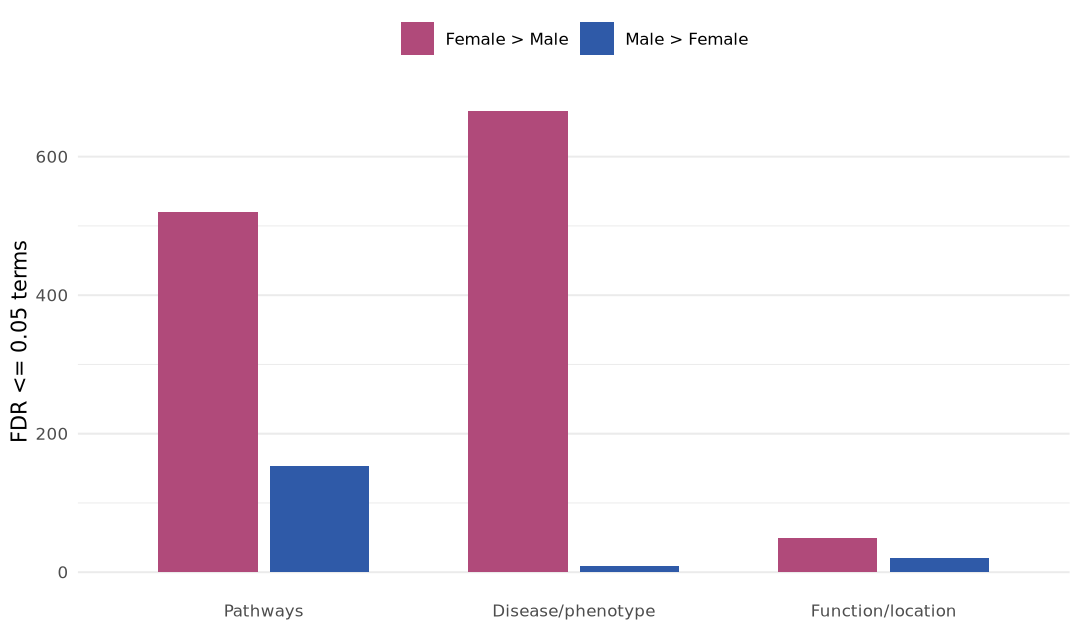
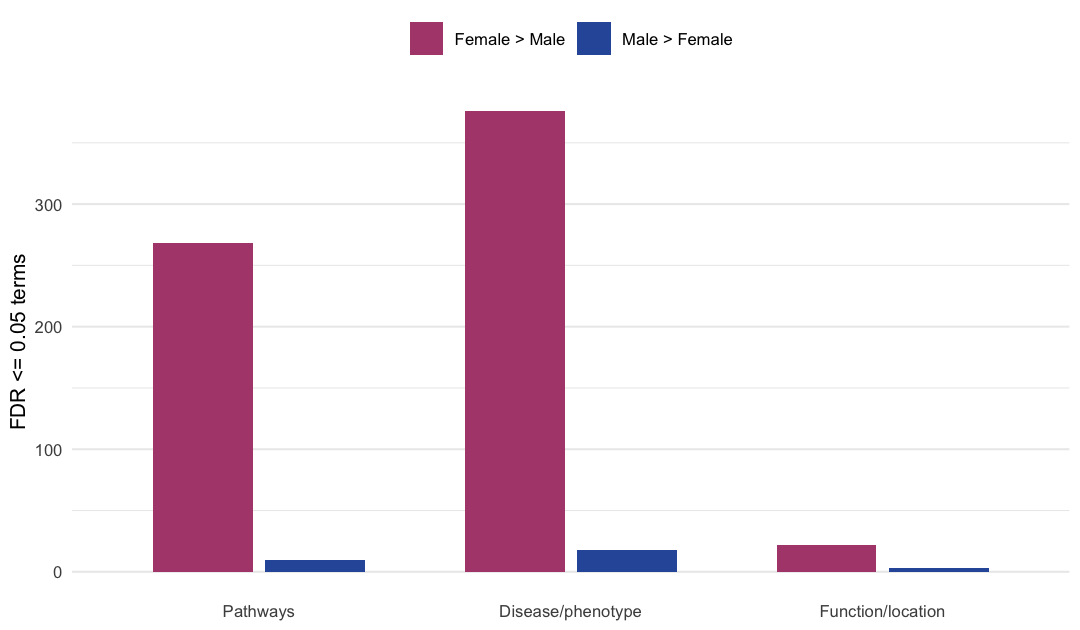
docs: regenerate the sex-contrast example reports for 0.2.0
- rerun the GTEx thyroid and TCGA lung analyses with the 0.2.0 presets
  (Hallmark in pathways, cancer_programs instead of cancer_dependency);
  the cell-line figure is gone
- fix the GTEx gene-reads URL (the counts-by-tissue path returns 404)
- report labels: upper-case HGNC gene symbols in term names, Hallmark and
  cancer-programme collection names
- date the 0.2.0 changelog entry

diff --git a/examples/analysis/sex_contrast/tcga_lung/analysis.md b/examples/analysis/sex_contrast/tcga_lung/analysis.md
@@ -7,13 +7,13 @@ TCGA LUAD and LUSC primary tumors from recount3 were contrasted by sex using DES
 - Samples: 998 total (404 Female, 594 Male).
 - Ranked genes: 53984.
 - DESeq2 design: `~ project + age_at_diagnosis + sex`.
-- GMT files under `results/alien_outputs`: `pathways/gmt/tcga_recount3_gencode29.gmt`, `disease_phenotype/gmt/tcga_recount3_gencode29.gmt`, `function_location/gmt/tcga_recount3_gencode29.gmt`, `cancer_dependency/gmt/tcga_recount3_gencode29.gmt`.
+- GMT files under `results/alien_outputs`: `pathways/gmt/tcga_recount3_gencode29.gmt`, `disease_phenotype/gmt/tcga_recount3_gencode29.gmt`, `function_location/gmt/tcga_recount3_gencode29.gmt`, `cancer_programs/gmt/tcga_recount3_gencode29.gmt`.
 - rsfgsea: `rsfgsea` in multilevel mode.
 - Direction: positive NES means Female > Male; negative NES means Male > Female.
 
 ## Main Result
 
-FDR-significant enrichment was present in 4 of 4 collections. The broadest signal was in `Pathways` (1124 Female > Male terms, 1044 Male > Female terms), with the larger directional count in Female > Male sets.
+FDR-significant enrichment was present in 4 of 4 collections. The broadest signal was in `Pathways` (691 Female > Male terms, 495 Male > Female terms), with the larger directional count in Female > Male sets.
 
 ## Data Products
 
@@ -22,16 +22,16 @@ FDR-significant enrichment was present in 4 of 4 collections. The broadest signa
 
 ## Collection Summary
 
-The figure below gives a collection-level view of significant enrichment. Detailed term-level results are shown in the tables; figures are limited to the clearest pathway and cancer-dependency examples.
+The figure below gives a collection-level view of significant enrichment. Detailed term-level results are shown in the tables; figures are limited to the clearest pathway and cancer-programme examples.
 
 ![collection_significance.png](collection_significance.png)
 
 Collection | Tested terms | FDR <= 0.05 | Strongest Female > Male | Strongest Male > Female
 --- | --- | --- | --- | ---
-Pathways | 7771 | 2168 | GOBP: Negative regulation of interleukin 10 production (NES 1.91, FDR 0.0071) | GOBP: Farnesyl diphosphate biosynthetic process (NES -2.03, FDR 0.00305)
-Disease/phenotype | 11902 | 1440 | DisGeNET: Autoimmune primary adrenal insufficiency (NES 2.35, FDR 0.024) | Clinvar 2025: Leigh syndrome (NES -1.97, FDR 0.024)
-Function/location | 1835 | 377 | GOCC: T cell receptor complex (NES 2.6, FDR 0.0226) | GOMF: Nucleic acid conformation isomerase activity (NES -2.4, FDR 0.0226)
-Cancer dependency | 2702 | 1942 | Cancer Cell Line Encyclopedia: HS611T haematopoietic and lymphoid tissue (NES 2.74, FDR 0.00454) | CGN: GNF2 CCNA2 (NES -2.7, FDR 0.00454)
+Pathways | 7678 | 1186 | Reactome: Immunoregulatory interactions between a lymphoid and a non lymphoid... (NES 2.41, FDR 9.33e-15) | Hallmark: E2F targets (NES -2.58, FDR 1.04e-10)
+Disease/phenotype | 11820 | 606 | Jensen Diseases Curated 2025: Primary immunodeficiency disease (NES 2.19, FDR 4.02e-10) | DisGeNET: Spermatogenic failure nonobstructive y-linked (NES -2.4, FDR 9.52e-08)
+Function/location | 1835 | 224 | GOCC: External side of plasma membrane (NES 2.34, FDR 1.98e-21) | GOMF: Catalytic activity acting on RNA (NES -2.14, FDR 5.77e-09)
+Cancer programmes | 399 | 184 | C9: Genes correlated with RHOA deletion (NES 2.63, FDR 6.24e-30) | 3CA: Gavish 3CA malignant metaprogram 20 MYC (NES -2.42, FDR 4.42e-06)
 
 ## Enrichment Results
 
@@ -39,22 +39,22 @@ Cancer dependency | 2702 | 1942 | Cancer Cell Line Encyclopedia: HS611T haematop
 
 - GMT: `results/alien_outputs/pathways/gmt/tcga_recount3_gencode29.gmt`.
 - rsfgsea table: [tcga_lung_pathways_female_vs_male_rsfgsea.tsv](../../../../results/sex_contrast/tcga_lung/tables/tcga_lung_pathways_female_vs_male_rsfgsea.tsv)
-- Tested 7771 terms; 2168 had FDR <= 0.05.
-- Strongest Female > Male signal: GOBP: Negative regulation of interleukin 10 production (NES 1.91, FDR 0.0071).
-- Strongest Male > Female signal: GOBP: Farnesyl diphosphate biosynthetic process (NES -2.03, FDR 0.00305).
+- Tested 7678 terms; 1186 had FDR <= 0.05.
+- Strongest Female > Male signal: Reactome: Immunoregulatory interactions between a lymphoid and a non lymphoid... (NES 2.41, FDR 9.33e-15).
+- Strongest Male > Female signal: Hallmark: E2F targets (NES -2.58, FDR 1.04e-10).
 
 Top enrichment rows:
 
 Source | Collection | Term | NES | P value | FDR | Genes
 --- | --- | --- | --- | --- | --- | ---
-MSigDB | GOBP | Farnesyl diphosphate biosynthetic process | -2.034 | 1.098e-05 | 0.003049 | 10
-MSigDB | KEGG Medicus | Reference recruitment and formation of the mcc | -1.904 | 1.098e-05 | 0.003049 | 10
-MSigDB | GOBP | Positive regulation of protein localization to cajal body | -1.872 | 1.098e-05 | 0.003049 | 10
-MSigDB | GOBP | mRNA pseudouridine synthesis | -1.817 | 1.098e-05 | 0.003049 | 10
-MSigDB | KEGG Medicus | Reference citrate cycle second carbon oxidation 2 | -1.783 | 1.098e-05 | 0.003049 | 10
-MSigDB | Reactome | Cholesterol biosynthesis via desmosterol bloch pathway | -1.782 | 1.098e-05 | 0.003049 | 10
-MSigDB | GOBP | Heme a biosynthetic process | -1.78 | 1.098e-05 | 0.003049 | 10
-MSigDB | GOBP | Regulation of amino acid metabolic process | -1.77 | 1.098e-05 | 0.003049 | 10
+MSigDB | Reactome | Immunoregulatory interactions between a lymphoid and a non lymphoid cell | 2.406 | 2.163e-18 | 9.334e-15 | 186
+MSigDB | GOBP | Leukocyte proliferation | 2.194 | 2.431e-18 | 9.334e-15 | 347
+MSigDB | GOBP | Leukocyte cell cell adhesion | 2.069 | 1.665e-17 | 4.262e-14 | 450
+MSigDB | Hallmark | Interferon gamma response | 2.358 | 2.271e-17 | 4.358e-14 | 199
+MSigDB | GOBP | Regulation of leukocyte proliferation | 2.219 | 4.929e-17 | 7.569e-14 | 275
+MSigDB | GOBP | Immune response regulating cell surface receptor signaling pathway | 2.081 | 9.602e-17 | 1.229e-13 | 411
+MSigDB | GOBP | Regulation of T cell activation | 2.046 | 2.593e-15 | 2.844e-12 | 408
+MSigDB | GOBP | Positive regulation of cell activation | 2.051 | 3.092e-15 | 2.968e-12 | 392
 
 Selected figures:
 
@@ -66,66 +66,68 @@ Selected figures:
 
 - GMT: `results/alien_outputs/disease_phenotype/gmt/tcga_recount3_gencode29.gmt`.
 - rsfgsea table: [tcga_lung_disease_phenotype_female_vs_male_rsfgsea.tsv](../../../../results/sex_contrast/tcga_lung/tables/tcga_lung_disease_phenotype_female_vs_male_rsfgsea.tsv)
-- Tested 11902 terms; 1440 had FDR <= 0.05.
-- Strongest Female > Male signal: DisGeNET: Autoimmune primary adrenal insufficiency (NES 2.35, FDR 0.024).
-- Strongest Male > Female signal: Clinvar 2025: Leigh syndrome (NES -1.97, FDR 0.024).
+- Tested 11820 terms; 606 had FDR <= 0.05.
+- Strongest Female > Male signal: Jensen Diseases Curated 2025: Primary immunodeficiency disease (NES 2.19, FDR 4.02e-10).
+- Strongest Male > Female signal: DisGeNET: Spermatogenic failure nonobstructive y-linked (NES -2.4, FDR 9.52e-08).
 
 Top enrichment rows:
 
 Source | Collection | Term | NES | P value | FDR | Genes
 --- | --- | --- | --- | --- | --- | ---
-Enrichr | DisGeNET | Autoimmune primary adrenal insufficiency | 2.35 | 0.001727 | 0.02401 | 47
-MSigDB | HPO | Meningitis | 2.278 | 0.001695 | 0.02401 | 80
-MSigDB | HPO | Recurrent mycobacterial infections | 2.243 | 0.001709 | 0.02401 | 66
-MSigDB | HPO | Chronic sinusitis | 2.24 | 0.001712 | 0.02401 | 72
-Enrichr | Jensen Diseases Curated 2025 | Autoimmune disease | 2.222 | 0.001645 | 0.02401 | 170
-Enrichr | Jensen Diseases Curated 2025 | Immune system disease | 2.209 | 0.001618 | 0.02401 | 243
-Enrichr | DisGeNET | Common variable immunodeficiency | 2.201 | 0.001618 | 0.02401 | 149
-MSigDB | HPO | Abnormal atrial arrangement | 2.197 | 0.001686 | 0.02401 | 59
+Enrichr | Jensen Diseases Curated 2025 | Primary immunodeficiency disease | 2.192 | 3.397e-14 | 4.015e-10 | 216
+Enrichr | Jensen Diseases Curated 2025 | Autoimmune disease | 2.222 | 9.613e-13 | 5.681e-09 | 170
+Enrichr | DisGeNET | Common variable immunodeficiency | 2.21 | 7.645e-12 | 2.259e-08 | 150
+MSigDB | HPO | Abnormal paranasal sinus morphology | 2.112 | 7.073e-12 | 2.259e-08 | 199
+MSigDB | HPO | Abnormal pulmonary thoracic imaging finding | 2.146 | 1.308e-11 | 3.093e-08 | 166
+Enrichr | Jensen Diseases Curated 2025 | Autoimmune disease of musculoskeletal system | 2.173 | 2.774e-11 | 5.465e-08 | 140
+Enrichr | DisGeNET | Spermatogenic failure nonobstructive y-linked | -2.404 | 7.943e-11 | 9.515e-08 | 16
+MSigDB | HPO | Meningitis | 2.278 | 5.896e-11 | 9.515e-08 | 80
 
 ### Function/location
 
 - GMT: `results/alien_outputs/function_location/gmt/tcga_recount3_gencode29.gmt`.
 - rsfgsea table: [tcga_lung_function_location_female_vs_male_rsfgsea.tsv](../../../../results/sex_contrast/tcga_lung/tables/tcga_lung_function_location_female_vs_male_rsfgsea.tsv)
-- Tested 1835 terms; 377 had FDR <= 0.05.
-- Strongest Female > Male signal: GOCC: T cell receptor complex (NES 2.6, FDR 0.0226).
-- Strongest Male > Female signal: GOMF: Nucleic acid conformation isomerase activity (NES -2.4, FDR 0.0226).
+- Tested 1835 terms; 224 had FDR <= 0.05.
+- Strongest Female > Male signal: GOCC: External side of plasma membrane (NES 2.34, FDR 1.98e-21).
+- Strongest Male > Female signal: GOMF: Catalytic activity acting on RNA (NES -2.14, FDR 5.77e-09).
 
 Top enrichment rows:
 
 Source | Collection | Term | NES | P value | FDR | Genes
 --- | --- | --- | --- | --- | --- | ---
-MSigDB | GOCC | T cell receptor complex | 2.595 | 0.001629 | 0.02255 | 142
-MSigDB | GOMF | Immune receptor activity | 2.45 | 0.001667 | 0.02255 | 169
-MSigDB | GOMF | Antigen binding | 2.418 | 0.001675 | 0.02255 | 170
-MSigDB | GOMF | Nucleic acid conformation isomerase activity | -2.404 | 0.002475 | 0.02255 | 159
-MSigDB | GOCC | Immunoglobulin complex | 2.38 | 0.001689 | 0.02255 | 173
-MSigDB | GOCC | Nucleoid | -2.378 | 0.002404 | 0.02255 | 48
-MSigDB | GOCC | Mitochondrial protein containing complex | -2.364 | 0.002469 | 0.02255 | 182
-MSigDB | GOCC | External side of plasma membrane | 2.336 | 0.001585 | 0.02255 | 380
+MSigDB | GOCC | External side of plasma membrane | 2.335 | 1.081e-24 | 1.984e-21 | 380
+MSigDB | GOCC | T cell receptor complex | 2.595 | 1.881e-21 | 1.726e-18 | 142
+MSigDB | GOMF | Immune receptor activity | 2.45 | 3.483e-19 | 2.13e-16 | 169
+MSigDB | GOMF | Antigen binding | 2.417 | 2.092e-18 | 9.596e-16 | 170
+MSigDB | GOCC | Plasma membrane signaling receptor complex | 2.184 | 5.361e-18 | 1.968e-15 | 356
+MSigDB | GOCC | Immunoglobulin complex | 2.379 | 1.28e-17 | 3.914e-15 | 173
+MSigDB | GOCC | Axoneme | 2.096 | 1.651e-12 | 4.327e-10 | 235
+MSigDB | GOMF | Catalytic activity acting on RNA | -2.14 | 2.515e-11 | 5.768e-09 | 428
 
-### Cancer dependency
+### Cancer programmes
 
-- GMT: `results/alien_outputs/cancer_dependency/gmt/tcga_recount3_gencode29.gmt`.
-- rsfgsea table: [tcga_lung_cancer_dependency_female_vs_male_rsfgsea.tsv](../../../../results/sex_contrast/tcga_lung/tables/tcga_lung_cancer_dependency_female_vs_male_rsfgsea.tsv)
-- Tested 2702 terms; 1942 had FDR <= 0.05.
-- Strongest Female > Male signal: Cancer Cell Line Encyclopedia: HS611T haematopoietic and lymphoid tissue (NES 2.74, FDR 0.00454).
-- Strongest Male > Female signal: CGN: GNF2 CCNA2 (NES -2.7, FDR 0.00454).
+- GMT: `results/alien_outputs/cancer_programs/gmt/tcga_recount3_gencode29.gmt`.
+- rsfgsea table: [tcga_lung_cancer_programs_female_vs_male_rsfgsea.tsv](../../../../results/sex_contrast/tcga_lung/tables/tcga_lung_cancer_programs_female_vs_male_rsfgsea.tsv)
+- Tested 399 terms; 184 had FDR <= 0.05.
+- Strongest Female > Male signal: C9: Genes correlated with RHOA deletion (NES 2.63, FDR 6.24e-30).
+- Strongest Male > Female signal: 3CA: Gavish 3CA malignant metaprogram 20 MYC (NES -2.42, FDR 4.42e-06).
 
 Top enrichment rows:
 
 Source | Collection | Term | NES | P value | FDR | Genes
 --- | --- | --- | --- | --- | --- | ---
-Enrichr | Cancer Cell Line Encyclopedia | HS611T haematopoietic and lymphoid tissue | 2.74 | 0.001629 | 0.004537 | 217
-MSigDB | CGN | GNF2 CCNA2 | -2.704 | 0.002439 | 0.004537 | 68
-MSigDB | CGN | GNF2 pcna | -2.678 | 0.002439 | 0.004537 | 68
-MSigDB | C9 | Genes correlated with myb deletion | 2.667 | 0.001669 | 0.004537 | 60
-Enrichr | Cancer Cell Line Encyclopedia | MOTN1 haematopoietic and lymphoid tissue | 2.664 | 0.001667 | 0.004537 | 420
-MSigDB | CGN | GNF2 hmmr | -2.653 | 0.002364 | 0.004537 | 47
-Enrichr | Cancer Cell Line Encyclopedia | Eheb haematopoietic and lymphoid tissue | 2.652 | 0.001616 | 0.004537 | 336
-Enrichr | Cancer Cell Line Encyclopedia | EB1 haematopoietic and lymphoid tissue | 2.652 | 0.001605 | 0.004537 | 236
+MSigDB | C9 | Genes correlated with RHOA deletion | 2.634 | 1.565e-32 | 6.245e-30 | 280
+MSigDB | C9 | Genes correlated with H3C2 deletion | 2.342 | 8.476e-20 | 1.691e-17 | 249
+MSigDB | C9 | Genes correlated with H3C3 deletion | 2.447 | 1.968e-17 | 2.618e-15 | 159
+MSigDB | C9 | Genes correlated with MYB deletion | 2.691 | 8.55e-17 | 7.289e-15 | 60
+MSigDB | C6 | RPS14 dn.V1 up | 2.315 | 9.134e-17 | 7.289e-15 | 190
+MSigDB | C9 | Genes correlated with PIK3CD deletion | 2.518 | 3.312e-12 | 2.202e-10 | 35
+MSigDB | 3CA | Gavish 3CA metaprogram B cells MHC II | 2.475 | 1.466e-11 | 7.852e-10 | 50
+MSigDB | C9 | Genes correlated with DNM2 deletion | 2.39 | 1.574e-11 | 7.852e-10 | 80
 
-Selected figure:
+Selected figures:
 
-![cancer_dependency_lung_cancer_cell_lines_running_score.png](cancer_dependency_lung_cancer_cell_lines_running_score.png)
+![cancer_programs_tumour_programmes_3ca_metaprograms_running_score.png](cancer_programs_tumour_programmes_3ca_metaprograms_running_score.png)
+
+![cancer_programs_oncogenic_signatures_kras_egfr_myc_running_score.png](cancer_programs_oncogenic_signatures_kras_egfr_myc_running_score.png)
 

diff --git a/examples/analysis/sex_contrast/gtex_thyroid/analysis.md b/examples/analysis/sex_contrast/gtex_thyroid/analysis.md
@@ -1,6 +1,6 @@
 # GTEx Thyroid Sex Contrast
 
-GTEx v11 thyroid samples were contrasted by sex using DESeq2 on raw counts, adjusting for age group, Hardy death class, RNA integrity, tissue ischemic time, and sequencing center. Genes were ranked by the Wald statistic for Female vs Male and tested against three ALIEN GTEx/Gencode GMT collections with multilevel rsfgsea: pathways, disease/phenotype, and function/location. Cancer dependency is intentionally not used for GTEx.
+GTEx v11 thyroid samples were contrasted by sex using DESeq2 on raw counts, adjusting for age group, Hardy death class, RNA integrity, tissue ischemic time, and sequencing center. Genes were ranked by the Wald statistic for Female vs Male and tested against three ALIEN GTEx/Gencode GMT collections with multilevel rsfgsea: pathways, disease/phenotype, and function/location. The cancer-programme and cell-line collections are not used for normal tissue.
 
 - Samples: 683 total (224 Female, 459 Male).
 - Ranked genes: 65295.
@@ -11,7 +11,7 @@ GTEx v11 thyroid samples were contrasted by sex using DESeq2 on raw counts, adju
 
 ## Main Result
 
-FDR-significant enrichment was present in 3 of 3 collections. The broadest signal was in `Disease/phenotype` (666 Female > Male terms, 9 Male > Female terms), with the larger directional count in Female > Male sets.
+FDR-significant enrichment was present in 3 of 3 collections. The broadest signal was in `Disease/phenotype` (376 Female > Male terms, 18 Male > Female terms), with the larger directional count in Female > Male sets.
 
 ## Data Products
 
@@ -26,9 +26,9 @@ The figure below gives a collection-level view of significant enrichment. Detail
 
 Collection | Tested terms | FDR <= 0.05 | Strongest Female > Male | Strongest Male > Female
 --- | --- | --- | --- | ---
-Pathways | 7716 | 673 | GOBP: T cell receptor signaling pathway (NES 2.33, FDR 0.0318) | GOBP: Regulation of androgen receptor signaling pathway (NES -2.33, FDR 0.0318)
-Disease/phenotype | 11886 | 675 | HPO: Abnormal T cell morphology (NES 2.28, FDR 0.0338) | HPO: Decreased testicular size (NES -2.02, FDR 0.0338)
-Function/location | 1825 | 71 | GOCC: Tertiary granule (NES 1.75, FDR 0.0127) | GOMF: Dynein heavy chain binding (NES -2.01, FDR 0.0226)
+Pathways | 7626 | 278 | GOBP: Immune response regulating cell surface receptor signaling pathway (NES 2.21, FDR 1.75e-16) | GOBP: Cilium organization (NES -1.95, FDR 0.00193)
+Disease/phenotype | 11804 | 394 | HPO: Abnormal lymphocyte morphology (NES 2.16, FDR 7.37e-10) | Jensen Diseases Experimental 2025: Autistic disorder (NES -2.35, FDR 3.62e-06)
+Function/location | 1825 | 25 | GOCC: T cell receptor complex (NES 2.49, FDR 2.23e-15) | GOCC: Axoneme (NES -2.24, FDR 0.00876)
 
 ## Enrichment Results
 
@@ -36,22 +36,22 @@ Function/location | 1825 | 71 | GOCC: Tertiary granule (NES 1.75, FDR 0.0127) | 
 
 - GMT: `results/alien_outputs/pathways/gmt/gtex_v11_gencode47.gmt`.
 - rsfgsea table: [gtex_thyroid_pathways_female_vs_male_rsfgsea.tsv](../../../../results/sex_contrast/gtex_thyroid/tables/gtex_thyroid_pathways_female_vs_male_rsfgsea.tsv)
-- Tested 7716 terms; 673 had FDR <= 0.05.
-- Strongest Female > Male signal: GOBP: T cell receptor signaling pathway (NES 2.33, FDR 0.0318).
-- Strongest Male > Female signal: GOBP: Regulation of androgen receptor signaling pathway (NES -2.33, FDR 0.0318).
+- Tested 7626 terms; 278 had FDR <= 0.05.
+- Strongest Female > Male signal: GOBP: Immune response regulating cell surface receptor signaling pathway (NES 2.21, FDR 1.75e-16).
+- Strongest Male > Female signal: GOBP: Cilium organization (NES -1.95, FDR 0.00193).
 
 Top enrichment rows:
 
 Source | Collection | Term | NES | P value | FDR | Genes
 --- | --- | --- | --- | --- | --- | ---
-MSigDB | GOBP | Regulation of androgen receptor signaling pathway | -2.333 | 0.001556 | 0.03178 | 33
-MSigDB | GOBP | T cell receptor signaling pathway | 2.328 | 0.001441 | 0.03178 | 161
-MSigDB | GOBP | Antigen receptor mediated signaling pathway | 2.323 | 0.001406 | 0.03178 | 220
-MSigDB | GOBP | Natural killer cell mediated immunity | 2.312 | 0.001449 | 0.03178 | 94
-MSigDB | Reactome | Sars cov 1 modulates host translation machinery | -2.309 | 0.0008006 | 0.03178 | 37
-MSigDB | GOBP | Leukocyte mediated cytotoxicity | 2.305 | 0.001441 | 0.03178 | 156
-MSigDB | GOBP | Regulation of natural killer cell mediated immunity | 2.24 | 0.001515 | 0.03178 | 61
-MSigDB | Reactome | Generation of second messenger molecules | 2.223 | 0.00155 | 0.03178 | 37
+MSigDB | GOBP | Immune response regulating cell surface receptor signaling pathway | 2.211 | 2.298e-20 | 1.752e-16 | 402
+MSigDB | GOBP | Antigen receptor mediated signaling pathway | 2.323 | 5.518e-16 | 2.104e-12 | 220
+MSigDB | GOBP | Leukocyte cell cell adhesion | 2.006 | 3.161e-15 | 8.035e-12 | 436
+MSigDB | GOBP | Lymphocyte differentiation | 1.966 | 1.475e-14 | 2.812e-11 | 454
+MSigDB | GOBP | T cell receptor signaling pathway | 2.328 | 4.966e-14 | 7.573e-11 | 161
+MSigDB | GOBP | Regulation of T cell activation | 1.991 | 1.879e-13 | 2.388e-10 | 402
+MSigDB | GOBP | Leukocyte mediated cytotoxicity | 2.305 | 5.418e-13 | 5.902e-10 | 156
+MSigDB | Hallmark | Allograft rejection | 2.221 | 2.136e-12 | 2.036e-09 | 200
 
 Selected figure:
 
@@ -61,22 +61,22 @@ Selected figure:
 
 - GMT: `results/alien_outputs/disease_phenotype/gmt/gtex_v11_gencode47.gmt`.
 - rsfgsea table: [gtex_thyroid_disease_phenotype_female_vs_male_rsfgsea.tsv](../../../../results/sex_contrast/gtex_thyroid/tables/gtex_thyroid_disease_phenotype_female_vs_male_rsfgsea.tsv)
-- Tested 11886 terms; 675 had FDR <= 0.05.
-- Strongest Female > Male signal: HPO: Abnormal T cell morphology (NES 2.28, FDR 0.0338).
-- Strongest Male > Female signal: HPO: Decreased testicular size (NES -2.02, FDR 0.0338).
+- Tested 11804 terms; 394 had FDR <= 0.05.
+- Strongest Female > Male signal: HPO: Abnormal lymphocyte morphology (NES 2.16, FDR 7.37e-10).
+- Strongest Male > Female signal: Jensen Diseases Experimental 2025: Autistic disorder (NES -2.35, FDR 3.62e-06).
 
 Top enrichment rows:
 
 Source | Collection | Term | NES | P value | FDR | Genes
 --- | --- | --- | --- | --- | --- | ---
-MSigDB | HPO | Abnormal T cell morphology | 2.28 | 0.00149 | 0.03381 | 133
-MSigDB | HPO | Abnormal T cell subset distribution | 2.261 | 0.001546 | 0.03381 | 85
-MSigDB | HPO | Abnormal B cell morphology | 2.248 | 0.001508 | 0.03381 | 112
-MSigDB | HPO | Abnormal lymphocyte morphology | 2.161 | 0.001447 | 0.03381 | 263
-MSigDB | HPO | Abnormal eosinophil morphology | 2.137 | 0.001529 | 0.03381 | 74
-MSigDB | HPO | Abnormal circulating interleukin concentration | 2.131 | 0.001565 | 0.03381 | 38
-MSigDB | HPO | Unusual fungal infection | 2.13 | 0.00152 | 0.03381 | 121
-MSigDB | HPO | Meningitis | 2.127 | 0.001553 | 0.03381 | 80
+MSigDB | HPO | Abnormal lymphocyte morphology | 2.161 | 6.244e-14 | 7.37e-10 | 263
+MSigDB | HPO | Abnormal T cell morphology | 2.28 | 3.932e-13 | 2.32e-09 | 133
+MSigDB | HPO | Abnormal leukocyte physiology | 1.951 | 6.353e-12 | 2.5e-08 | 353
+MSigDB | HPO | Abnormal B cell morphology | 2.248 | 8.934e-12 | 2.636e-08 | 112
+MSigDB | HPO | Abnormality of humoral immunity | 1.92 | 1.147e-11 | 2.707e-08 | 359
+MSigDB | HPO | Abnormal lymphocyte count | 2.03 | 1.897e-10 | 3.731e-07 | 209
+MSigDB | HPO | Abnormal lymph node morphology | 1.976 | 2.779e-10 | 4.686e-07 | 269
+Enrichr | Jensen Diseases Curated 2025 | Primary immunodeficiency disease | 2.044 | 4.288e-10 | 6.327e-07 | 215
 
 Selected figure:
 
@@ -86,20 +86,20 @@ Selected figure:
 
 - GMT: `results/alien_outputs/function_location/gmt/gtex_v11_gencode47.gmt`.
 - rsfgsea table: [gtex_thyroid_function_location_female_vs_male_rsfgsea.tsv](../../../../results/sex_contrast/gtex_thyroid/tables/gtex_thyroid_function_location_female_vs_male_rsfgsea.tsv)
-- Tested 1825 terms; 71 had FDR <= 0.05.
-- Strongest Female > Male signal: GOCC: Tertiary granule (NES 1.75, FDR 0.0127).
-- Strongest Male > Female signal: GOMF: Dynein heavy chain binding (NES -2.01, FDR 0.0226).
+- Tested 1825 terms; 25 had FDR <= 0.05.
+- Strongest Female > Male signal: GOCC: T cell receptor complex (NES 2.49, FDR 2.23e-15).
+- Strongest Male > Female signal: GOCC: Axoneme (NES -2.24, FDR 0.00876).
 
 Top enrichment rows:
 
 Source | Collection | Term | NES | P value | FDR | Genes
 --- | --- | --- | --- | --- | --- | ---
-MSigDB | GOCC | Tertiary granule | 1.753 | 6.96e-06 | 0.0127 | 163
-MSigDB | GOMF | Dynein heavy chain binding | -2.014 | 0.0001795 | 0.02265 | 14
-MSigDB | GOMF | G protein coupled chemoattractant receptor activity | 2.011 | 3.036e-05 | 0.02265 | 27
-MSigDB | GOCC | Motile cilium | -2.001 | 0.0001393 | 0.02265 | 331
-MSigDB | GOMF | Immunoglobulin binding | 1.988 | 0.0002343 | 0.02265 | 30
-MSigDB | GOCC | MHC protein complex | 1.955 | 0.0002358 | 0.02265 | 24
-MSigDB | GOMF | Igg binding | 1.871 | 6.307e-05 | 0.02265 | 14
-MSigDB | GOMF | Immunoglobulin receptor activity | 1.85 | 6.307e-05 | 0.02265 | 14
+MSigDB | GOCC | T cell receptor complex | 2.485 | 1.219e-18 | 2.225e-15 | 139
+MSigDB | GOMF | Immune receptor activity | 2.293 | 6.526e-14 | 5.955e-11 | 167
+MSigDB | GOCC | Plasma membrane signaling receptor complex | 2.073 | 2.306e-13 | 1.403e-10 | 353
+MSigDB | GOCC | Immunoglobulin complex | 2.162 | 7.803e-11 | 3.56e-08 | 170
+MSigDB | GOMF | Antigen binding | 2.058 | 6.475e-10 | 2.363e-07 | 168
+MSigDB | GOCC | External side of plasma membrane | 1.836 | 8.878e-09 | 2.7e-06 | 378
+MSigDB | GOMF | Pattern recognition receptor activity | 2.085 | 3.304e-07 | 8.614e-05 | 53
+MSigDB | GOMF | Peptide antigen binding | 2.081 | 4.629e-07 | 0.0001056 | 45
 

diff --git a/CHANGELOG.md b/CHANGELOG.md
@@ -2,7 +2,7 @@
 
 All notable changes to ALIEN are documented here. The format follows [Keep a Changelog](https://keepachangelog.com/en/1.1.0/) and the project uses [Semantic Versioning](https://semver.org/).
 
-## [0.2.0] - Unreleased
+## [0.2.0] - 2026-11-26
 
 Hardening release: correct audit trail, reproducible and pinnable builds, typed configuration, and a modular code base. GMT contents are unchanged except where a fix below says so.
 
